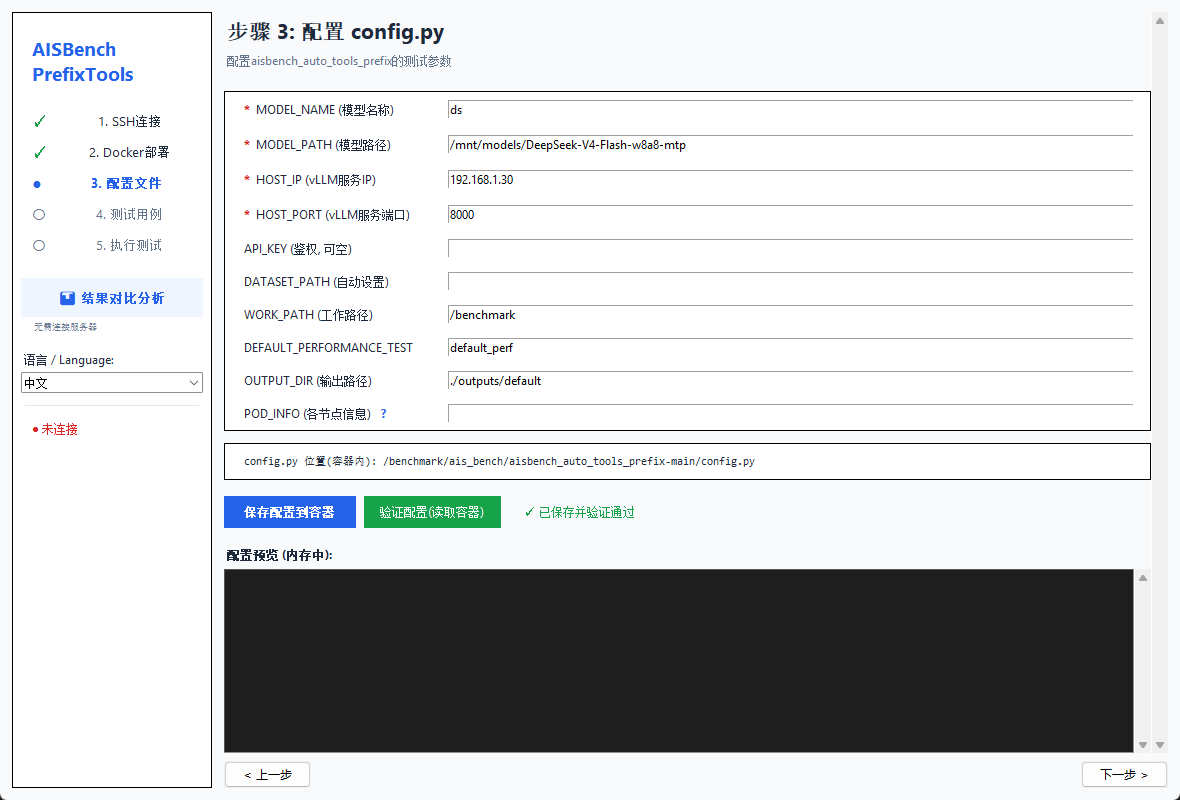
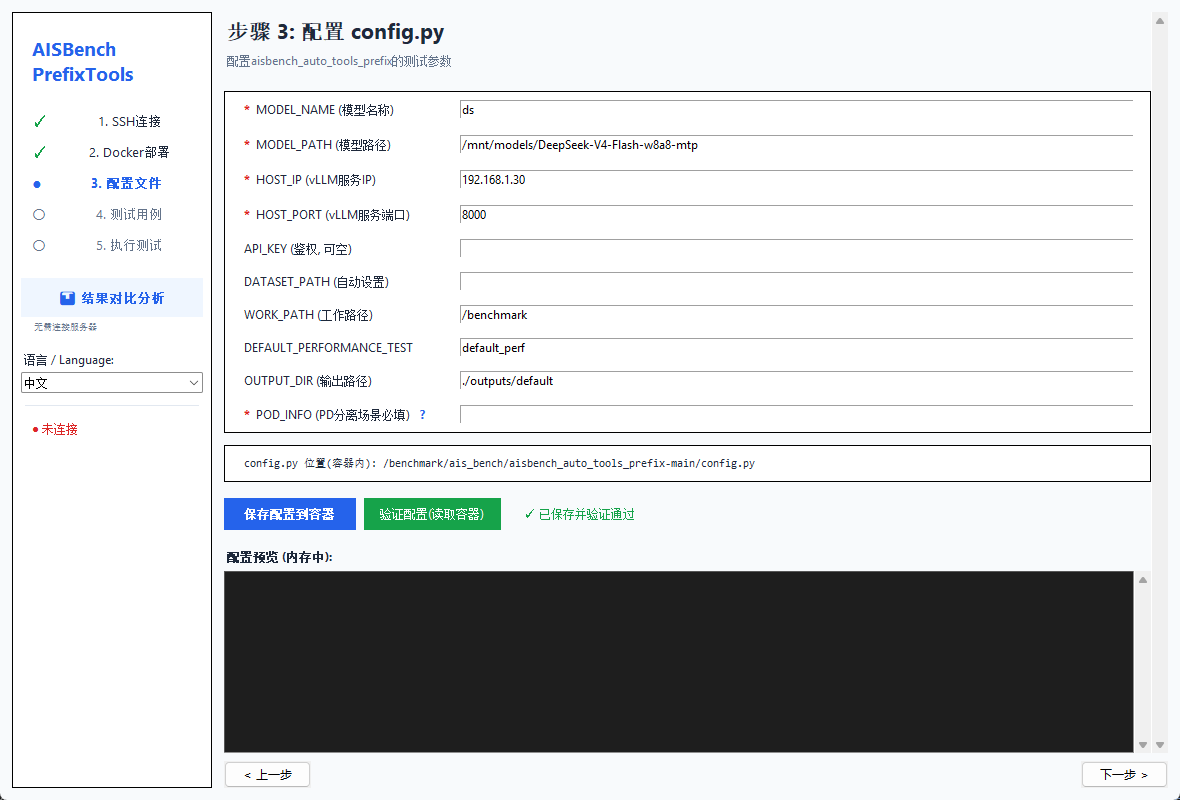
feat: mark POD_INFO as required for PD disaggregation

diff --git a/docs/index.html b/docs/index.html
@@ -362,7 +362,7 @@ build_exe.bat</code></pre>
       <tr><td>DATASET_PATH</td><td>自动填充</td><td>测试代码在容器内部的工作区路径。</td></tr>
       <tr><td>DEFAULT_PERFORMANCE_TEST</td><td><code>default_perf</code></td><td>稳态测试填写 <code>stable_stage</code>。</td></tr>
       <tr><td>OUTPUT_DIR</td><td><code>./outputs/default</code></td><td>容器内日志输出目录。</td></tr>
-      <tr><td>POD_INFO</td><td><code>[]</code></td><td>各节点信息，格式如 <code>ip:port,ip:port</code>；字段旁的 <code>?</code> 悬停可查看详细说明。</td></tr>
+      <tr><td>POD_INFO *</td><td><code>[]</code></td><td><b>PD 分离场景必填</b>。各节点信息，格式如 <code>ip:port,ip:port</code>；字段旁的 <code>?</code> 悬停可查看详细说明。</td></tr>
     </tbody>
   </table>
 </section>

diff --git a/tests/test_wizard_flow.py b/tests/test_wizard_flow.py
@@ -95,8 +95,8 @@ class DockerDeployFormTests(unittest.TestCase):
         self.assertEqual(len(_star_labels(app.step_frames[1])), 2)
         # 步骤1: 执行机IP + 用户名
         self.assertEqual(len(_star_labels(app.step_frames[0])), 2)
-        # 步骤3: MODEL_NAME/MODEL_PATH/HOST_IP/HOST_PORT
-        self.assertEqual(len(_star_labels(app.step_frames[2])), 4)
+        # 步骤3: MODEL_NAME/MODEL_PATH/HOST_IP/HOST_PORT/POD_INFO(PD分离场景必填)
+        self.assertEqual(len(_star_labels(app.step_frames[2])), 5)
 
     def test_remote_images_support_keyword_filter(self):
         app = self.app
@@ -184,7 +184,7 @@ class DockerDeployFormTests(unittest.TestCase):
         for text in ("MODEL_NAME (model name)",
                      "HOST_IP (vLLM service IP)",
                      "HOST_PORT (vLLM service port)",
-                     "POD_INFO (per-node info)"):
+                     "POD_INFO (required for PD disaggregation)"):
             self.assertIn(text, step3_texts)
 
         # 切回中文, 避免影响类内其他断言

diff --git a/i18n.py b/i18n.py
@@ -190,7 +190,7 @@ TRANSLATIONS = {
         "DATASET_PATH (自动设置)": "DATASET_PATH (set automatically)",
         "WORK_PATH (工作路径)": "WORK_PATH (working path)",
         "OUTPUT_DIR (输出路径)": "OUTPUT_DIR (output path)",
-        "POD_INFO (各节点信息)": "POD_INFO (per-node info)",
+        "POD_INFO (PD分离场景必填)": "POD_INFO (required for PD disaggregation)",
         "关键词筛选:": "Keyword filter:",
         "清除": "Clear",
         "步骤 4: 设计测试用例": "Step 4: Design test cases",

diff --git a/main.py b/main.py
@@ -1986,7 +1986,7 @@ class WizardApp:
             ("WORK_PATH (工作路径)", "work_path", False),
             ("DEFAULT_PERFORMANCE_TEST", "default_perf", False),
             ("OUTPUT_DIR (输出路径)", "output_dir", False),
-            ("POD_INFO (各节点信息)", "pod_info", False),
+            ("POD_INFO (PD分离场景必填)", "pod_info", True),
         ]
 
         self.config_entry_vars = {}

diff --git a/README.md b/README.md
@@ -136,7 +136,7 @@ build_exe.bat
 | WORK_PATH | `/benchmark` | aisbench 工作路径 |
 | DEFAULT_PERFORMANCE_TEST | `default_perf` | 稳态测试填 `stable_stage` |
 | OUTPUT_DIR | `./outputs/default` | 日志输出路径 |
-| POD_INFO | `[]` | 各节点信息，格式 `ip:port,ip:port`；字段旁的 `?` 悬停可查看详细说明 |
+| POD_INFO * | `[]` | **PD 分离场景必填**。各节点信息，格式 `ip:port,ip:port`；字段旁的 `?` 悬停可查看详细说明 |
 
 > 标注 `*` 的字段为必填项（界面中在其左侧以红色 `*` 标记）。
 
